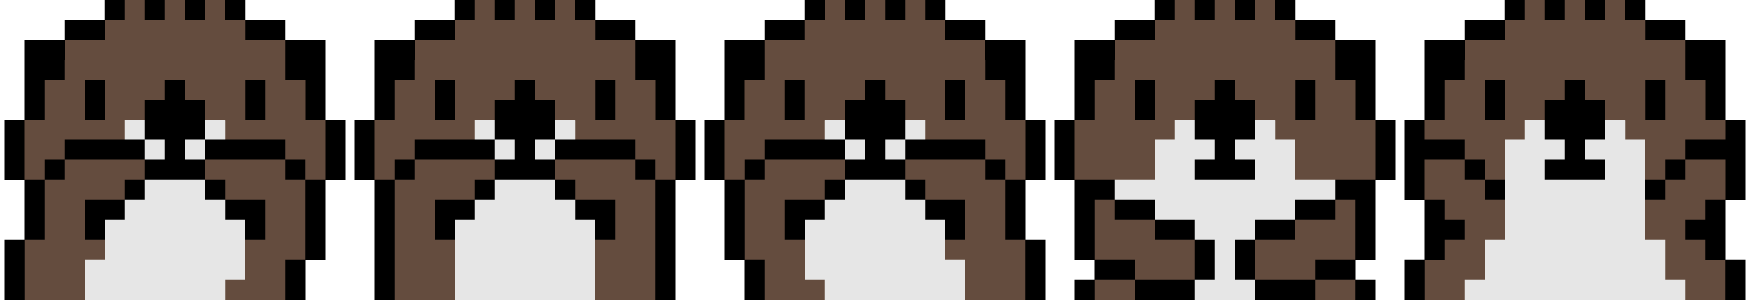
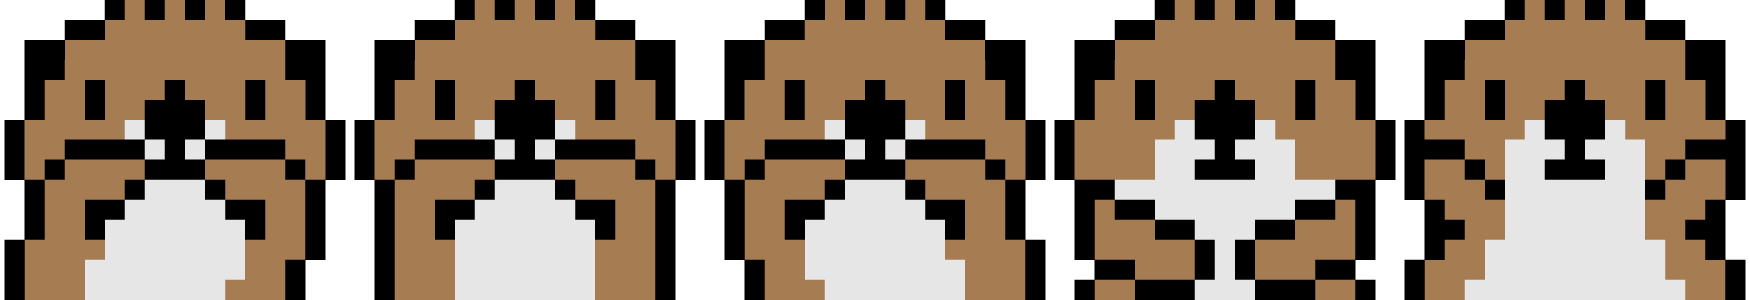
수달기능

diff --git a/index.html b/index.html
@@ -62,13 +62,66 @@
       padding: 40px 24px 48px;
       background: linear-gradient(180deg, #f0f0ec 0%, #fff 40%);
     }
-    .home-slide .home-logo { height: 32px; width: auto; margin-bottom: 8px; }
-    /* 홈 · 수달 스프라이트 (1750×300, 프레임 350×300 ×5) — 표시 40px 너비 */
+    .home-slide .home-logo { height: 32px; width: auto; margin-bottom: 10px; }
+    .home-slide .home-lead {
+      color: var(--muted);
+      font-size: .9rem;
+      margin-bottom: 14px;
+      line-height: 1.6;
+      max-width: 22rem;
+    }
+    /* 홈 · 4열 통계 + 수달 동작1 (스프라이트 1750×300, 프레임 350×300 ×5) */
+    .home-stats-board {
+      display: grid;
+      grid-template-columns: repeat(4, minmax(0, 1fr));
+      gap: 6px 4px;
+      width: 100%;
+      max-width: 100%;
+      margin: 16px 0 22px;
+      text-align: center;
+    }
+    .home-stat-col {
+      display: flex;
+      flex-direction: column;
+      align-items: center;
+      gap: 5px;
+      min-width: 0;
+    }
+    .home-stat-num {
+      font-family: 'Paperlogy', 'Pretendard', sans-serif;
+      font-size: 1.35rem;
+      font-weight: 900;
+      color: var(--dark);
+      line-height: 1.1;
+      letter-spacing: -0.04em;
+    }
+    .home-stat-label {
+      font-size: 0.74rem;
+      font-weight: 600;
+      color: var(--muted);
+      line-height: 1.38;
+      word-break: keep-all;
+    }
+    .home-stat-btn {
+      width: 100%;
+      max-width: 76px;
+      padding: 7px 4px;
+      border: none;
+      border-radius: 10px;
+      background: var(--dark);
+      color: #fff;
+      font-size: 0.68rem;
+      font-weight: 700;
+      cursor: pointer;
+      letter-spacing: -0.05em;
+    }
+    .home-stat-btn:hover { opacity: 0.9; }
+    .home-stat-btn:active { transform: scale(0.97); }
     .home-otter {
-      width: 40px;
+      width: 34px;
       aspect-ratio: 350 / 300;
-      margin: 4px 0 8px;
       overflow: hidden;
+      flex-shrink: 0;
     }
     .home-otter-sprite {
       width: 100%;
@@ -78,12 +131,27 @@
       image-rendering: -moz-crisp-edges;
       image-rendering: crisp-edges;
     }
+    .home-stat-fish-stack {
+      width: 100%;
+      display: grid;
+      grid-template-columns: repeat(4, 1fr);
+      column-gap: 0;
+      row-gap: 1px;
+      padding-top: 2px;
+      min-height: 4px;
+      justify-items: center;
+      align-content: start;
+    }
+    .home-stat-fish-seg {
+      font-size: 0.68rem;
+      line-height: 1;
+      opacity: 0.92;
+    }
     .home-slide h2 {
       font-family: 'Paperlogy', 'Pretendard', sans-serif;
       font-size: 1.65rem; font-weight: 900; color: var(--dark);
       margin-bottom: 8px;
     }
-    .home-slide p { color: var(--muted); font-size: .92rem; margin-bottom: 22px; line-height: 1.6; }
     .home-cta {
       display: inline-block;
       background: var(--accent); color: var(--dark);
@@ -400,11 +468,46 @@
         <section class="slide-panel" id="slide-0" aria-label="홈">
           <div class="slide-panel-inner home-slide">
             <img class="home-logo" src="justice_logo.svg" alt="정의당" />
-            <div class="home-otter" id="home-otter" role="img" aria-label="수달 캐릭터">
-              <div class="home-otter-sprite" id="home-otter-sprite"></div>
-            </div>
             <h2>황경산<br>서대문구의원 후보</h2>
-            <p>마선거구(남가좌동·북가좌동)<br>정의당과 함께 무지개 가좌로 갑니다.</p>
+            <p class="home-lead">마선거구(남가좌동·북가좌동)<br>정의당과 함께 무지개 가좌로 갑니다.</p>
+            <div class="home-stats-board" id="home-stats-board">
+              <div class="home-stat-col" data-col="0">
+                <div class="home-stat-num" id="home-stat-n0">0</div>
+                <div class="home-stat-label">내란세력없는<br>서대문 만들기</div>
+                <button type="button" class="home-stat-btn" data-stat-col="0" aria-label="내란세력없는 서대문 만들기 서명">서명</button>
+                <div class="home-otter" data-motion="1" role="img" aria-label="수달 동작1">
+                  <div class="home-otter-sprite"></div>
+                </div>
+                <div class="home-stat-fish-stack" id="home-fish-0"></div>
+              </div>
+              <div class="home-stat-col" data-col="1">
+                <div class="home-stat-num" id="home-stat-n1">0</div>
+                <div class="home-stat-label">서부선<br>공공 신속 추진</div>
+                <button type="button" class="home-stat-btn" data-stat-col="1" aria-label="서부선 공공 신속 추진 서명">서명</button>
+                <div class="home-otter" data-motion="1" role="img" aria-label="수달 동작1">
+                  <div class="home-otter-sprite"></div>
+                </div>
+                <div class="home-stat-fish-stack" id="home-fish-1"></div>
+              </div>
+              <div class="home-stat-col" data-col="2">
+                <div class="home-stat-num" id="home-stat-n2">0</div>
+                <div class="home-stat-label">1인가구 동별<br>지원센터 설치</div>
+                <button type="button" class="home-stat-btn" data-stat-col="2" aria-label="1인가구 동별 지원센터 설치 서명">서명</button>
+                <div class="home-otter" data-motion="1" role="img" aria-label="수달 동작1">
+                  <div class="home-otter-sprite"></div>
+                </div>
+                <div class="home-stat-fish-stack" id="home-fish-2"></div>
+              </div>
+              <div class="home-stat-col" data-col="3">
+                <div class="home-stat-num" id="home-stat-n3">0</div>
+                <div class="home-stat-label">백련산 끈끈이<br>롤트랩 반대</div>
+                <button type="button" class="home-stat-btn" data-stat-col="3" aria-label="백련산 끈끈이 롤트랩 반대 서명">서명</button>
+                <div class="home-otter" data-motion="1" role="img" aria-label="수달 동작1">
+                  <div class="home-otter-sprite"></div>
+                </div>
+                <div class="home-stat-fish-stack" id="home-fish-3"></div>
+              </div>
+            </div>
             <button type="button" class="home-cta" data-go-slide="1">후보 소개 보기 →</button>
           </div>
         </section>
@@ -743,59 +846,86 @@
       revObs.observe(el);
     });
 
-    /* ── 홈 수달 스프라이트 (char.png) ── */
+    /* ── 홈 통계 보드 + 수달 동작1 ×4 (char.png) ──
+     *  [동작 1] 스프라이트만. 1-based 1→2→3→2… (0-index [0,1,2,1], 4틱). 네 열 수달 모두 동작1.
+     *  [동작 2] (보류) 0-index [1,3,1,4] 4틱 — 다른 화면·시트 연동 시 사용.
+     *  [동작 3] (보류) 7틱 점프+5/2 프레임 — 다른 화면에서 사용.
+     */
     (function () {
-      const wrap = document.getElementById('home-otter');
-      const sprite = document.getElementById('home-otter-sprite');
-      if (!wrap || !sprite) return;
+      const board = document.getElementById('home-stats-board');
+      if (!board) return;
+      const sprites = board.querySelectorAll('.home-otter-sprite');
+      if (sprites.length < 4) return;
 
-      const FRAME_COUNT = 5;
+      const SHEET_FRAMES = 5;
       const FRAME_MS = 140;
+      const counts = [0, 0, 0, 0];
       let tick = 0;
       let rafId = null;
       let last = 0;
       let acc = 0;
+
+      function motion1FrameAtTick(t) {
+        return [0, 1, 2, 1][t % 4];
+      }
 
       function onHomeSlide() {
         const s = document.body.dataset.slide;
         return !s || s === '0';
       }
 
-      function pingPong(t, n) {
-        const cycle = n * 2 - 2;
-        if (cycle <= 0) return 0;
-        const i = t % cycle;
-        return i < n ? i : cycle - i;
-      }
-
-      function applyBg() {
-        const w = sprite.offsetWidth;
-        const h = sprite.offsetHeight;
-        if (w < 1) return;
-        sprite.style.backgroundImage = "url('char.png')";
-        sprite.style.backgroundSize = w * FRAME_COUNT + 'px ' + h + 'px';
-        const f = pingPong(tick, FRAME_COUNT);
-        sprite.style.backgroundPosition = -f * w + 'px 0';
+      function applyOtters() {
+        for (var i = 0; i < sprites.length; i++) {
+          var sprite = sprites[i];
+          var w = sprite.offsetWidth;
+          var h = sprite.offsetHeight;
+          if (w < 1) continue;
+          sprite.style.backgroundImage = "url('char.png')";
+          sprite.style.backgroundSize = w * SHEET_FRAMES + 'px ' + h + 'px';
+          var f = motion1FrameAtTick(tick);
+          sprite.style.backgroundPosition = -f * w + 'px 0';
+        }
       }
 
       function step(now) {
         if (!last) last = now;
-        const dt = now - last;
+        var dt = now - last;
         last = now;
         if (onHomeSlide()) {
           acc += dt;
           if (acc >= FRAME_MS) {
             acc -= FRAME_MS;
             tick += 1;
-            applyBg();
+            applyOtters();
           }
         }
         rafId = requestAnimationFrame(step);
       }
 
-      wrap.addEventListener('pointerdown', function () {
-        tick += 1;
-        applyBg();
+      board.querySelectorAll('.home-stat-btn').forEach(function (btn) {
+        btn.addEventListener('click', function () {
+          var col = parseInt(btn.getAttribute('data-stat-col'), 10);
+          if (isNaN(col) || col < 0 || col > 3) return;
+          counts[col] += 1;
+          var numEl = document.getElementById('home-stat-n' + col);
+          if (numEl) numEl.textContent = String(counts[col]);
+          var stack = document.getElementById('home-fish-' + col);
+          if (stack) {
+            var seg = document.createElement('span');
+            seg.className = 'home-stat-fish-seg';
+            seg.textContent = '🐟';
+            seg.setAttribute('aria-hidden', 'true');
+            stack.appendChild(seg);
+          }
+          syncSlideViewportHeight();
+        });
+      });
+
+      board.querySelectorAll('.home-otter').forEach(function (wrap) {
+        wrap.addEventListener('pointerdown', function () {
+          tick += 1;
+          applyOtters();
+        });
       });
 
       document.addEventListener('visibilitychange', function () {
@@ -810,11 +940,11 @@
       });
 
       new ResizeObserver(function () {
-        applyBg();
+        applyOtters();
         syncSlideViewportHeight();
-      }).observe(wrap);
+      }).observe(board);
 
-      applyBg();
+      applyOtters();
       rafId = requestAnimationFrame(step);
     })();
   </script>

diff --git a/character/components/OtterCharacter.tsx b/character/components/OtterCharacter.tsx
@@ -20,11 +20,9 @@ type OtterCharacterProps = {
   frameIntervalMs?: number;
 };
 
-function pingPongFrame(tick: number, frameCount: number): number {
-  const cycle = frameCount * 2 - 2;
-  if (cycle <= 0) return 0;
-  const i = tick % cycle;
-  return i < frameCount ? i : cycle - i;
+/** 노출 프레임만 1→2→3→2 (0-index 0,1,2,1) 반복 */
+function idleOtterFrameIndex(tick: number): number {
+  return [0, 1, 2, 1][tick % 4]!;
 }
 
 export function OtterCharacter({
@@ -32,7 +30,7 @@ export function OtterCharacter({
   autoPlay = true,
   frameIntervalMs = 140,
 }: OtterCharacterProps) {
-  const { src, frameWidth, frameHeight, sheetWidth, sheetHeight, frameCount } =
+  const { src, frameWidth, frameHeight, sheetWidth, sheetHeight } =
     OTTER_SPRITE;
 
   const [tick, setTick] = useState(0);
@@ -40,7 +38,7 @@ export function OtterCharacter({
   const lastRef = useRef<number>(0);
   const accRef = useRef(0);
 
-  const frameIndex = pingPongFrame(tick, frameCount);
+  const frameIndex = idleOtterFrameIndex(tick);
   const bgX = -frameIndex * frameWidth;
 
   const step = useCallback((now: number) => {